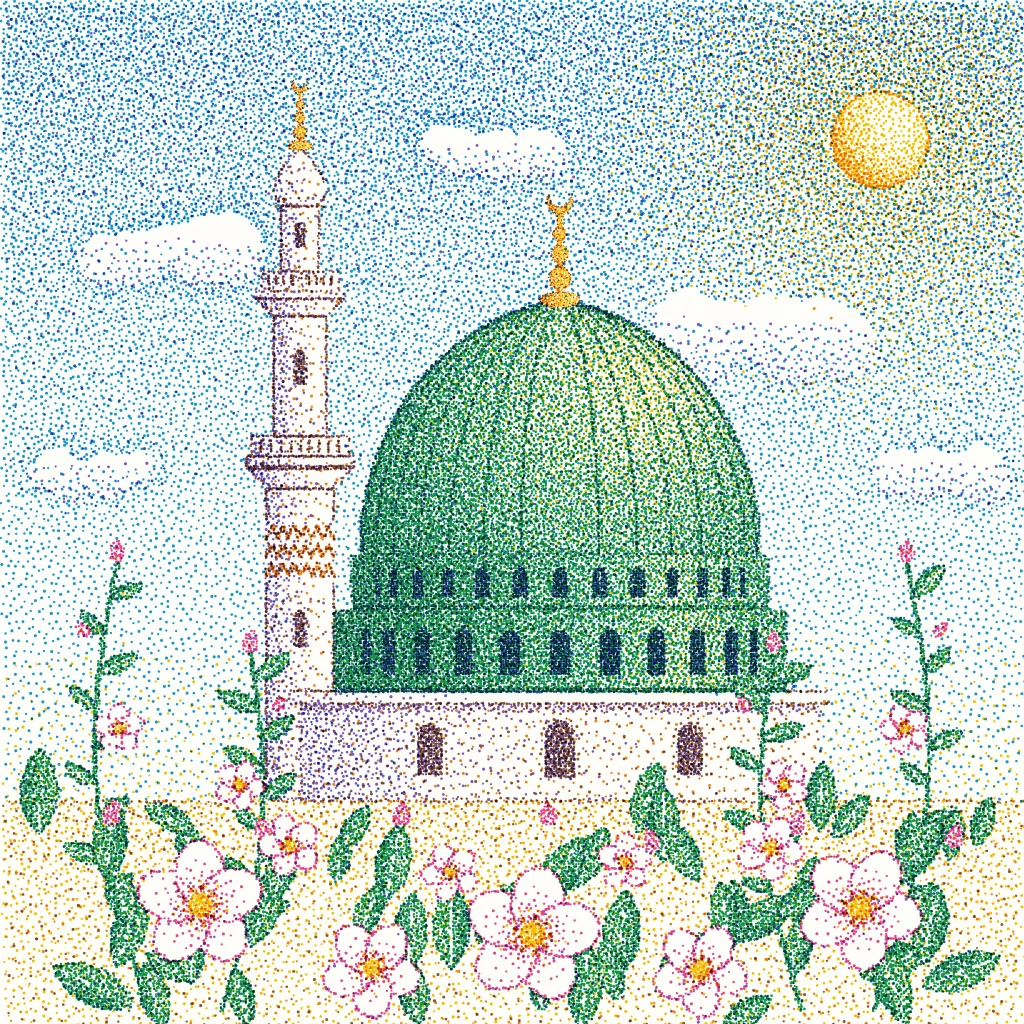
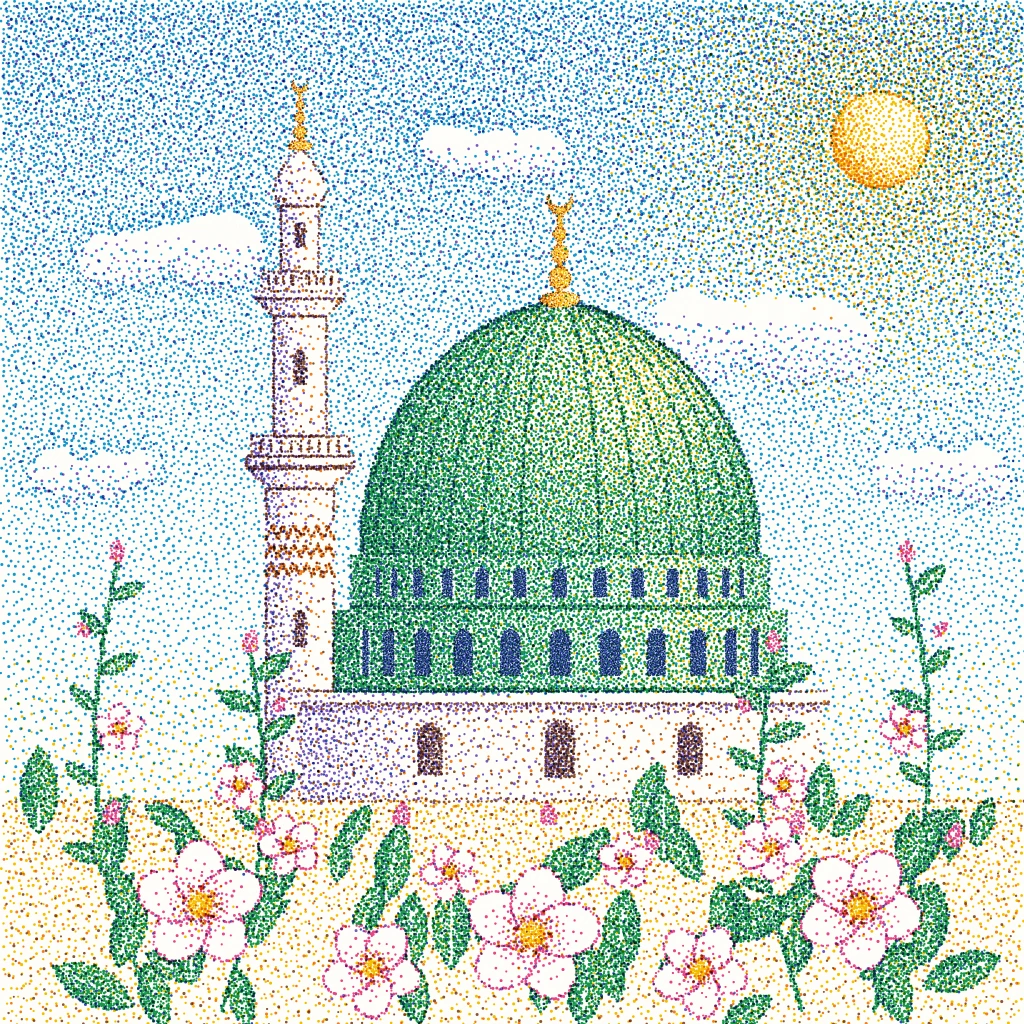
Atölye: üçüncü tur gözden geçirmelerinin ara kaydı
Claude-Session: https://claude.ai/code/session_01Q8CfoBGMPN7gfLWQYpMs1J

Changed region(s): [[0.0, 0.5312, 1.0, 1.0]]

diff --git a/atolye/stiller/S-120-ovma/ornek.html b/atolye/stiller/S-120-ovma/ornek.html
@@ -156,7 +156,7 @@
   const gokYon = (x, y) => {
     const dx = x - S.gunes.x, dy = y - S.gunes.y, r = Math.hypot(dx, dy);
     const tan = Math.atan2(dy, dx) + Math.PI / 2, hor = yatayYon(x, y);
-    const w = sstep(240, 520, r);
+    const w = sstep(130, 380, r);
     const c = (1 - w) * Math.cos(2 * tan) + w * Math.cos(2 * hor), sn = (1 - w) * Math.sin(2 * tan) + w * Math.sin(2 * hor);
     return Math.atan2(sn, c) / 2;
   };
@@ -169,10 +169,10 @@
       ud: { adet: 900, renk: ['#7A6CE0', '#46A6E6', '#F08C8C', '#F7B65E', '#5FC4D8'], boy: 80, en: 22, aci: () => (rnd() - 0.5) * 1.4, alfa: 0.3 },
       s1: lin(S1, 0, 0, 0, 806, [[0, '#BFE0F6'], [0.5, '#DDF0F8'], [0.85, '#FFF4E4'], [1, '#FFF1D8']]),
       p1: lin(P1, 0, 0, 0, 806, [[0, gri(0.56)], [0.6, gri(0.62)], [1, gri(0.7)]]),
-      p1d: { adet: 1500, deger: (x, y) => 0.5 + 0.22 * (y / 806) + 0.26 * gunesYakin(x, y, 260), boy: 34, aci: gokYon },
+      p1d: { adet: 1500, deger: (x, y) => 0.52 + 0.2 * (y / 806) + 0.2 * gunesYakin(x, y, 260), boy: 34, aci: gokYon },
       s2: '#FFFBEE',
       p2: 0.0,
-      p2d: { adet: 700, deger: (x, y) => { const g = gunesYakin(x, y, 300); return g > 0.06 ? 0.3 + 0.65 * g : null; }, boy: 30, aci: gokYon },
+      p2d: { adet: 320, deger: (x, y) => { const g = gunesYakin(x, y, 280); return g > 0.06 ? 0.25 + 0.6 * g : null; }, boy: 56, aci: gokYon },
     });
     // güneşin çevresindeki sıcak alt boya hâlesi
     U.save(); U.globalCompositeOperation = 'source-atop';
@@ -409,9 +409,10 @@
 
   // ------------------------------------------------------------ 8. birleşim: bez örgüsü + kuru fırça kılları + basınç eşiği
   const Uv = U.getImageData(0, 0, N, N).data;
-  const S1v = S1.getImageData(0, 0, N, N).data;
-  const S2v = S2.getImageData(0, 0, N, N).data;
   const bulanik = (c, r) => { const k = yeni(); const x = k.getContext('2d', { willReadFrequently: true }); x.filter = `blur(${r * K}px)`; x.drawImage(c, 0, 0); return x.getImageData(0, 0, N, N).data; };
+  // ovma boyası kenarların üstünden hafifçe geçer: kayıp, yumuşak kenarlar
+  const S1v = bulanik(S1c, 1.2);
+  const S2v = bulanik(S2c, 1.2);
   const P1v = bulanik(P1c, 3.5);
   const P2v = bulanik(P2c, 4.0);
   const Kv = bulanik(Kc, 0.35);

diff --git a/atolye/stiller/S-097-renkli-noktalama/ornek.html b/atolye/stiller/S-097-renkli-noktalama/ornek.html
@@ -309,8 +309,8 @@
     const q = S.kasnak[k];
     const yol = P(kutu(q.x1, q.y1, q.x2, q.y2));
     bolge(yol, {
-      yesil: dogrusal(q.x1, 0, q.x2, 0, [[0, 0.62], [0.45, 0.48], [0.78, 0.32], [1, 0.46]]),
-      mavi: dogrusal(q.x1, 0, q.x2, 0, [[0, 0.3], [0.4, 0.12], [0.75, 0.02], [1, 0.1]]),
+      yesil: dogrusal(q.x1, 0, q.x2, 0, [[0, 0.52], [0.45, 0.38], [0.78, 0.24], [1, 0.36]]),
+      mavi: dogrusal(q.x1, 0, q.x2, 0, [[0, 0.2], [0.4, 0.07], [0.75, 0.0], [1, 0.05]]),
       sari: dogrusal(q.x1, 0, q.x2, 0, [[0, 0.0], [0.6, 0.04], [0.8, 0.14], [1, 0.03]]),
       camgobegi: dogrusal(q.x1, 0, q.x2, 0, [[0, 0.0], [0.7, 0.06], [1, 0.02]]),
     });
@@ -318,8 +318,22 @@
     sil(P(kutu(q.x1, q.y1, q.x2, q.y1 + 3)), 0.7, ['yesil', 'mavi']);
     ekle(P(kutu(q.x1, q.y2 - 4, q.x2, q.y2)), { yesil: 0.25, mavi: 0.2 });
     ekle(yol, { yesil: 0.35, mavi: 0.2 }, 2);
+    // pencereler: daha ince uçlu kalemle sık, koyu lacivert; çevresinde noktasız ince bir taş pervaz
     for (const p of S.kasnakPencereleri(k)) {
-      bolge(P(S.kemerYolu(p.x, p.y, p.w, p.h)), { mavi: 0.75, yesil: 0.55, mor: 0.22 });
+      const pd = S.kemerYolu(p.x, p.y, p.w, p.h);
+      for (const ad of ['yesil', 'mavi', 'sari', 'camgobegi']) {
+        const { h } = harita[ad];
+        h.save();
+        h.globalCompositeOperation = 'destination-out';
+        h.strokeStyle = 'rgba(0,0,0,0.8)';
+        h.lineWidth = 3.4;
+        h.stroke(P(pd));
+        h.restore();
+      }
+      bolge(P(pd), {});
+      harita = inceHarita;
+      bolge(P(pd), { mavi: 0.8, yesil: 0.3, mor: 0.28 });
+      harita = anaHarita;
     }
   }
 
